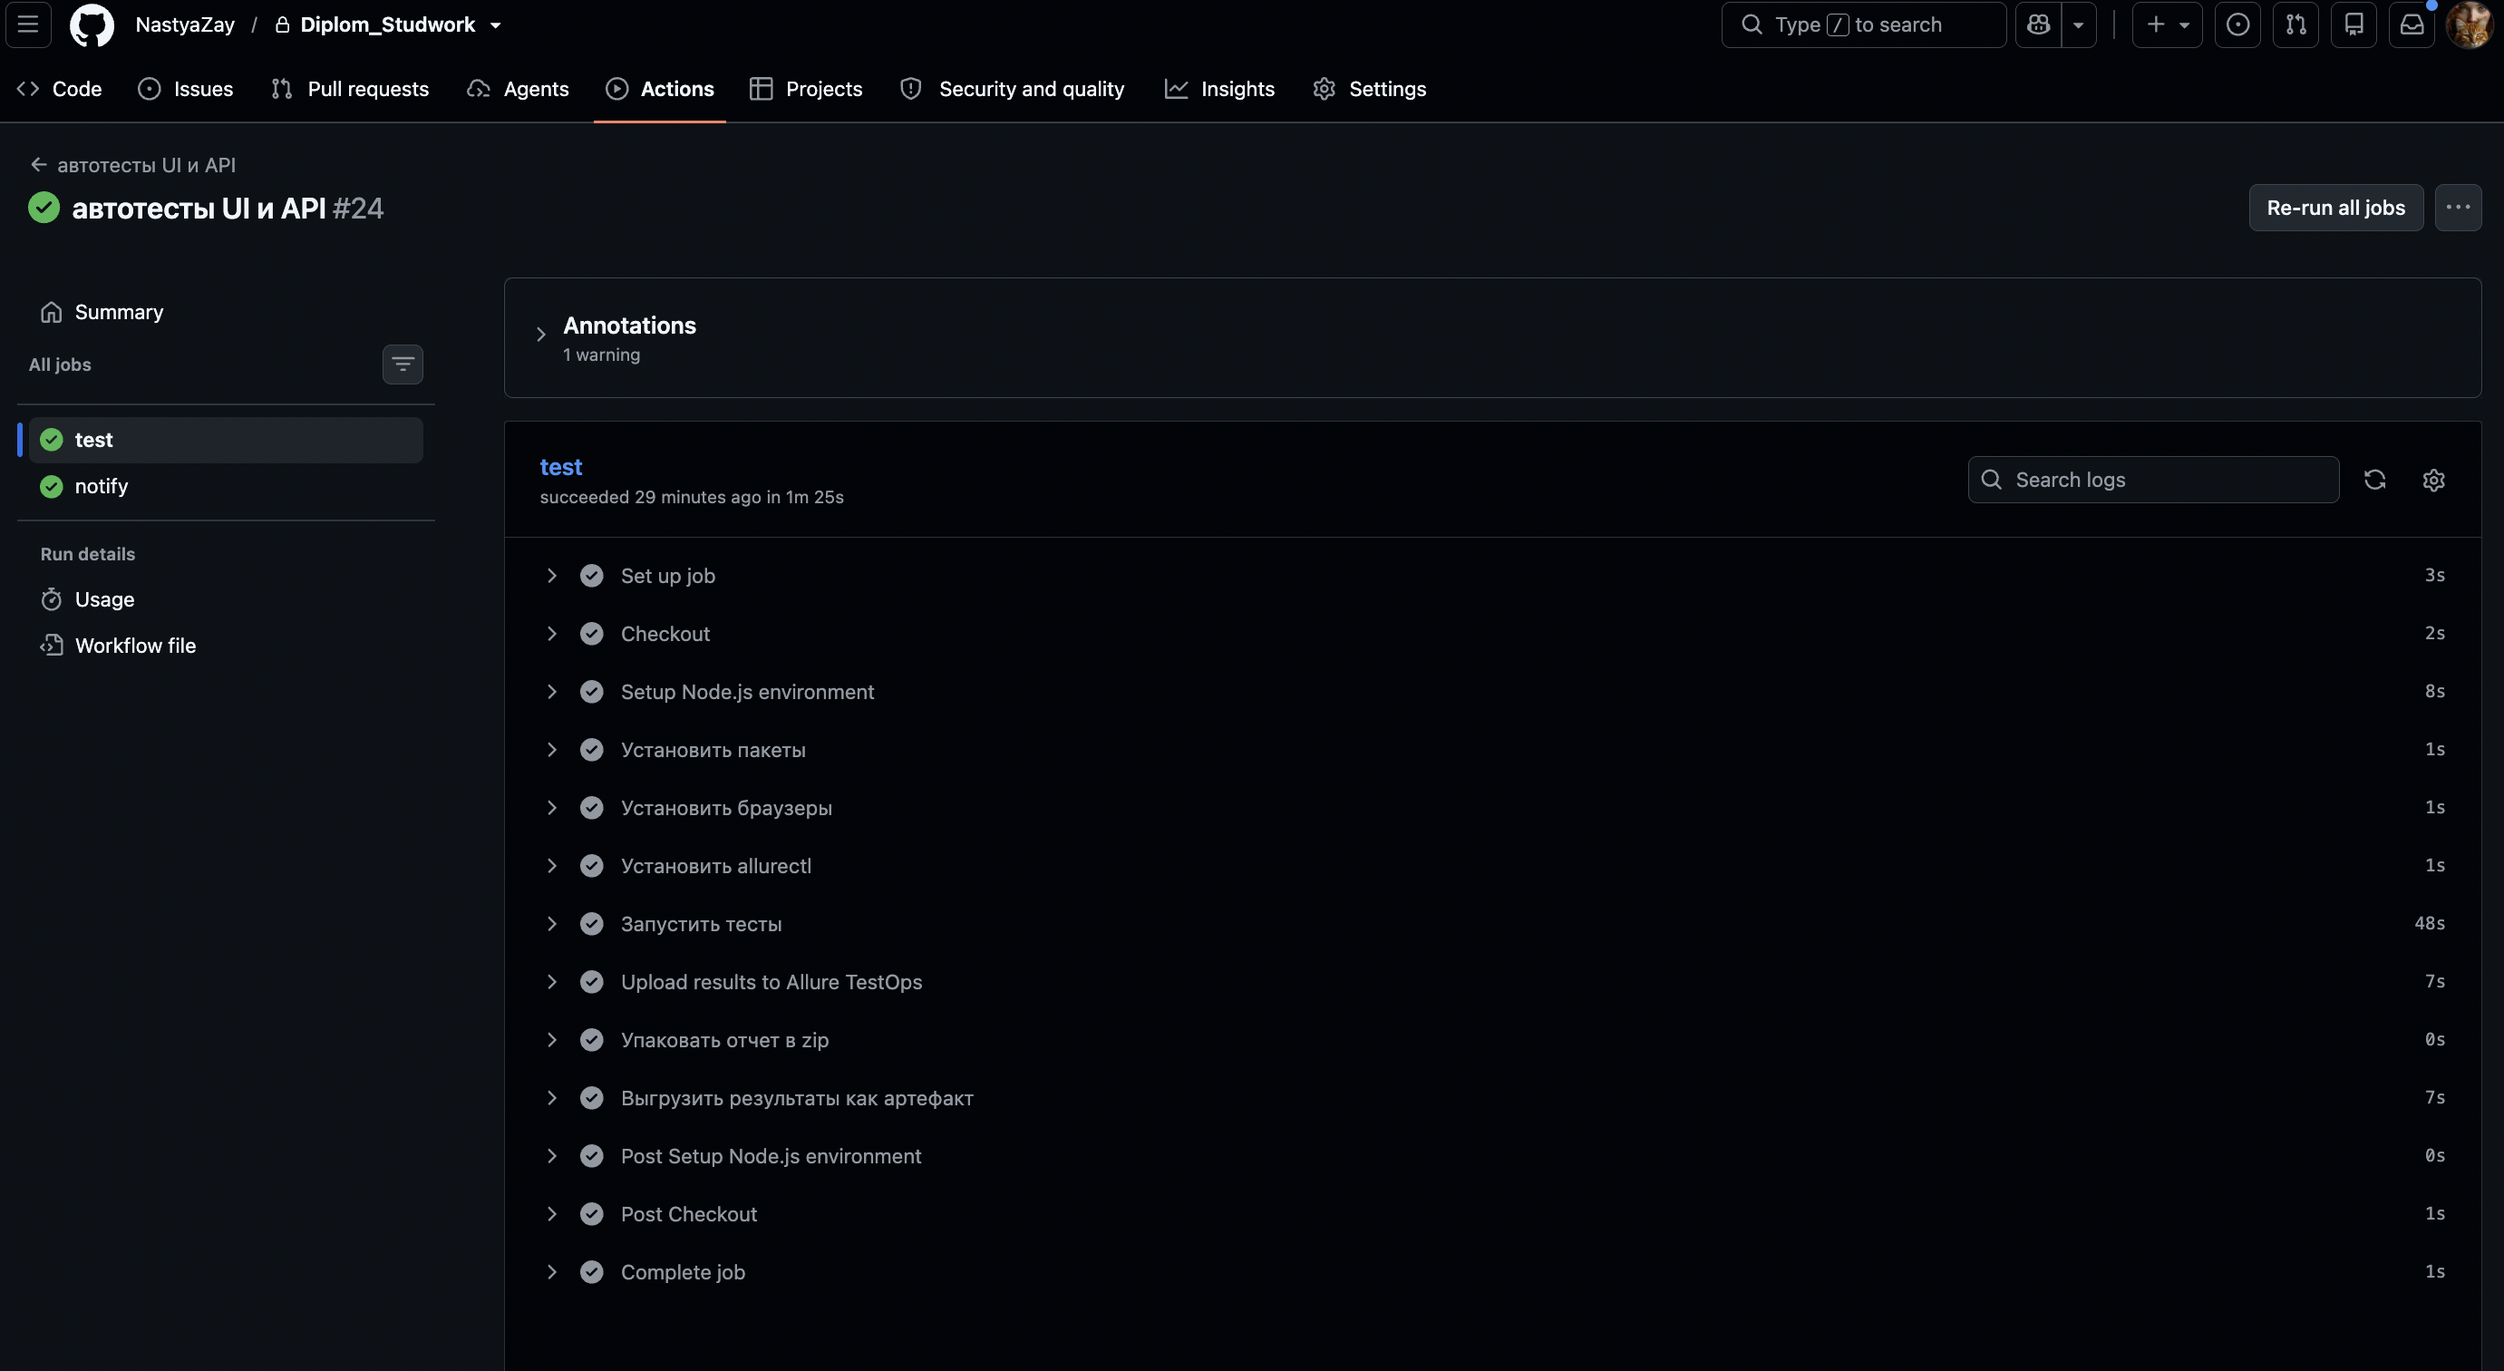
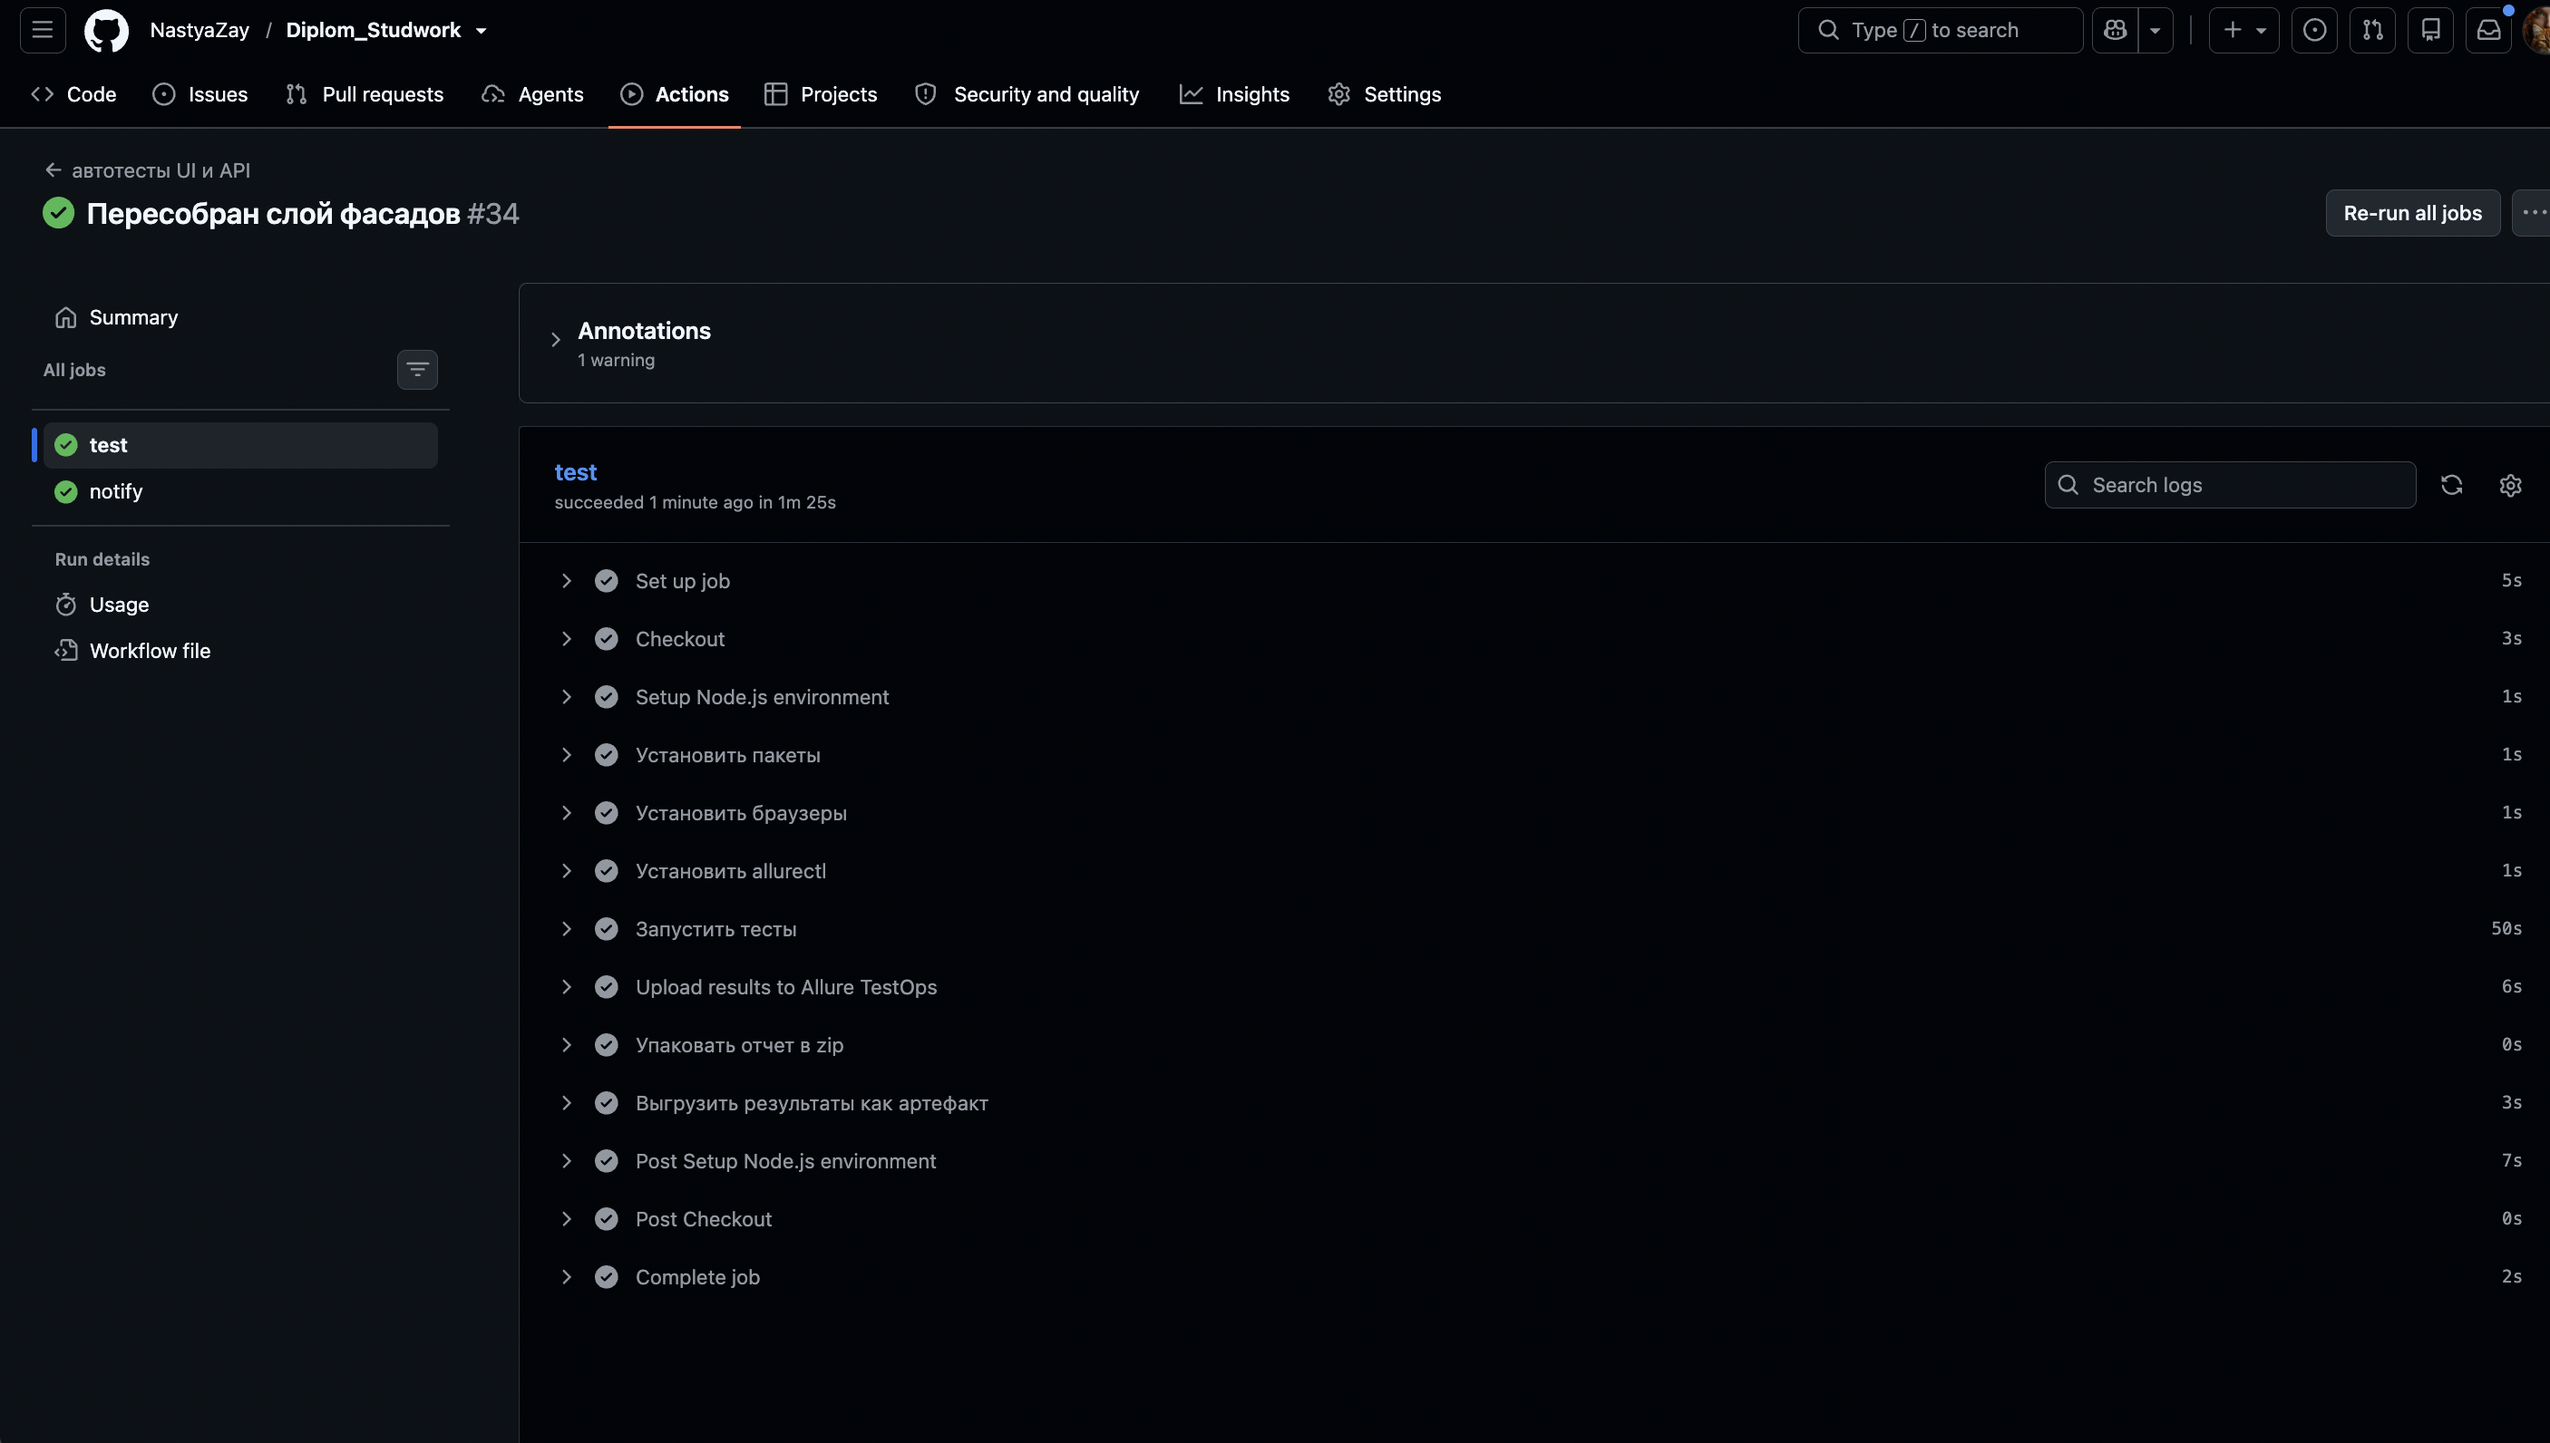
Добавлены скриншоты прогона в REDME

diff --git a/README.md b/README.md
@@ -213,11 +213,11 @@ allurectl upload allure-results
 
 **Список запусков в Allure TestOps:**
 
-![Allure TestOps — запуски](docs/testops-launches.png)
+![Allure TestOps — запуски](docs/testops1.png)
 
 **Результаты тестов прогона (15 тестов: 8 UI + 7 API, плюс setup-проект входа):**
 
-![Allure TestOps — результаты тестов](docs/testops-results.png)
+![Allure TestOps — результаты тестов](docs/Testops2.png)
 
 ---
 
@@ -254,6 +254,6 @@ allurectl upload allure-results
 
 **Пример уведомления в Telegram:**
 
-![Telegram — уведомление о прогоне](docs/telegram-notify.jpg)
+![Telegram — уведомление о прогоне](docs/TG.jpg)
 
 ---
